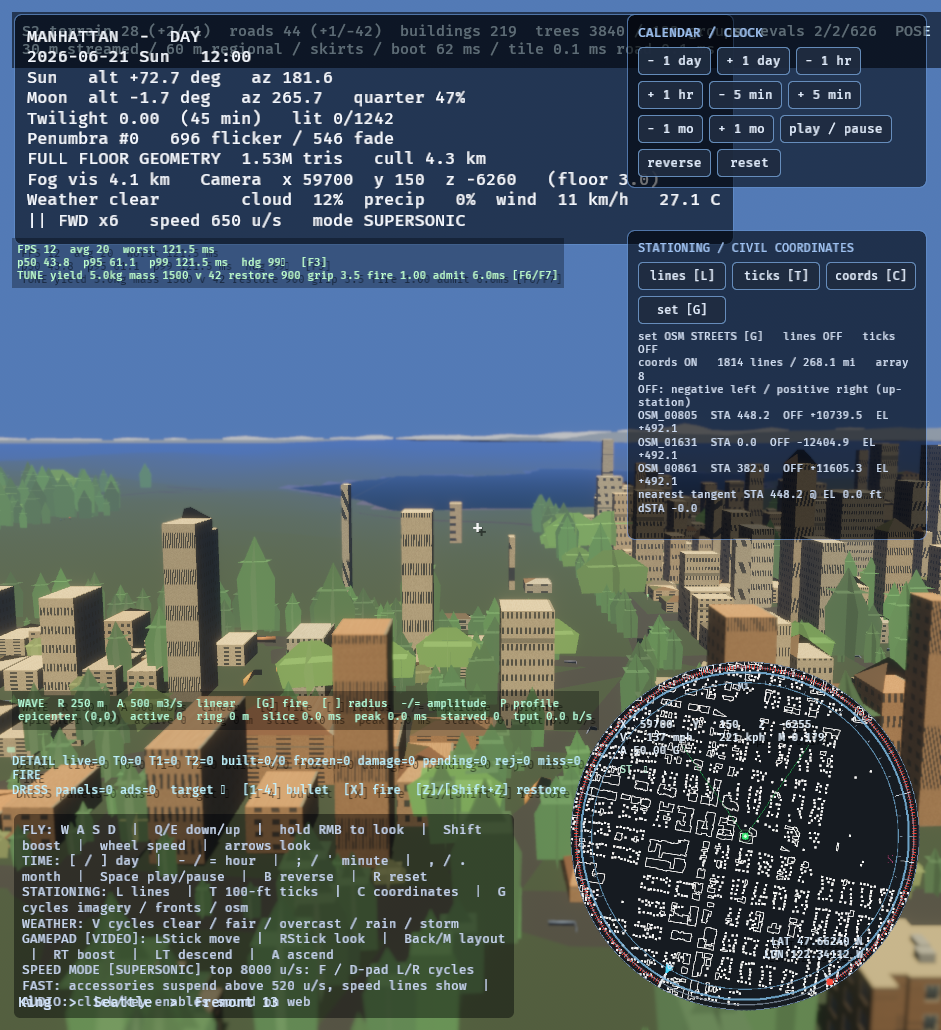
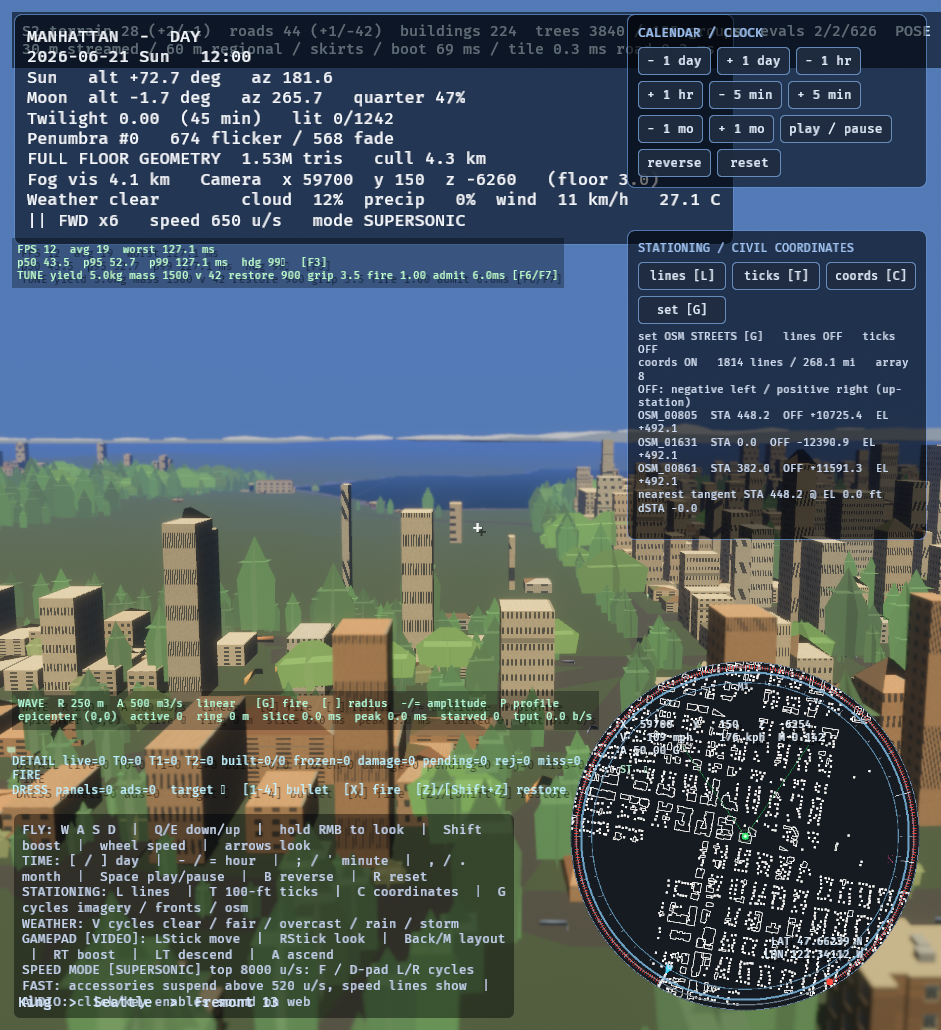
Playtest 79: same ship, same sky — config parity, radius extension
- parity.rs prints CONFIG (verbatim command, world flags, instrumentation)
  and a live REP audit every 2 s: chunks, shells, proxy roots, proxy boxes,
  distinct baked tints, shipped gables/flats. Bare --seattle is certified
  as the canonical build; world flags are identical across bare, altitude
  and gauntlet runs (S2,S3,BOOT,LANDMARKS,HORIZON).
- --seattle-s2-gauntlet now enables SEATTLE_S3 and LANDMARKS_ALWAYS (the
  old flag ran S2 only, so its chunk assert could never pass). Capture
  envs only move the camera / toggle DOF+UI; TREES_OFF (district capture
  flags only) is the one remaining build-affecting switch, flagged.
- Residential layer at 150 m under the bare build: 19 chunks, 230
  shells, 12,501 proxy boxes, 385 tint values, 3,712 gables shipped vs
  2,768 flats (57% gabled) — the features are in the player's build.
- Radius extension: load 650->850, unload 800->1050, S3 resident cap
  16->20. REP stable tick-over-tick at the cruise pose; no evict/re-want
  churn reintroduced.
- Gauntlet 650 m/s 59.7/91.0 ms in band. 161 tests green, clippy clean,
  --seattle boots clean.
- tower-house-frame: attempted under the bare profile; the 90 m tower
  renders in shadow with no readable window rows, so it does not pass.
  Escalated to a named debt blocking new marquee features next round.

diff --git a/viewer/src/parity.rs b/viewer/src/parity.rs
@@ -1,0 +1,160 @@
+//! Configuration parity + representation audit.
+//!
+//! The player always launches bare `--seattle`. Any environment flag that
+//! changes what is built or streamed is therefore a defect: instrumentation may
+//! only add observation. This module prints the active configuration and, every
+//! two seconds, an honest per-layer representation audit measured from the live
+//! scene (shells, near proxies, merged batches, distinct baked tints, shipped
+//! roof faces) so bare and instrumented runs can be compared like for like.
+
+use std::collections::HashSet;
+
+use bevy::prelude::*;
+
+use crate::geology::Geology;
+
+#[derive(Resource, Default)]
+struct RepAudit {
+    next_at: f32,
+}
+
+pub struct ParityPlugin;
+
+impl Plugin for ParityPlugin {
+    fn build(&self, app: &mut App) {
+        app.init_resource::<RepAudit>()
+            .add_systems(Startup, print_config)
+            .add_systems(Update, rep_audit);
+    }
+}
+
+fn env(name: &str) -> bool {
+    std::env::var_os(name).is_some()
+}
+
+/// The canonical configuration line. `bare` means the player's verbatim
+/// invocation; anything else is instrumentation and must not alter the world.
+fn print_config() {
+    let bare = !env("S2_GAUNTLET")
+        && !env("FLIGHT_CAPTURE")
+        && !env("EVIDENCE_CAPTURE")
+        && !env("MURK_CAPTURE")
+        && !env("GHOST_AERIAL")
+        && !env("PEDESTRIAN_CAPTURE")
+        && !env("TRAFFIC_CAPTURE")
+        && !env("STOREFRONT_CAPTURE")
+        && !env("SEATTLE_BOOT_CAPTURE");
+    let world_flags = [
+        ("SEATTLE_S2", env("SEATTLE_S2")),
+        ("SEATTLE_S3", env("SEATTLE_S3")),
+        ("SEATTLE_BOOT", env("SEATTLE_BOOT")),
+        ("LANDMARKS_ALWAYS", env("LANDMARKS_ALWAYS")),
+        ("PILOT_HORIZON", env("PILOT_HORIZON")),
+        ("TREES_OFF", env("TREES_OFF")),
+        ("S3_DAMAGE", env("S3_DAMAGE")),
+        ("TRAFFIC_LEGACY", env("TRAFFIC_LEGACY")),
+        (
+            "TRAFFIC_CAP",
+            std::env::var("TRAFFIC_CAP")
+                .ok()
+                .map(|_| true)
+                .unwrap_or(false),
+        ),
+    ];
+    let instrument = [
+        ("S2_GAUNTLET", env("S2_GAUNTLET")),
+        ("FLIGHT_CAPTURE", env("FLIGHT_CAPTURE")),
+        ("EVIDENCE_CAPTURE", env("EVIDENCE_CAPTURE")),
+        ("MURK_CAPTURE", env("MURK_CAPTURE")),
+        ("PEDESTRIAN_CAPTURE", env("PEDESTRIAN_CAPTURE")),
+        ("TRAFFIC_CAPTURE", env("TRAFFIC_CAPTURE")),
+        ("STOREFRONT_CAPTURE", env("STOREFRONT_CAPTURE")),
+        ("SEATTLE_BOOT_CAPTURE", env("SEATTLE_BOOT_CAPTURE")),
+        ("REP_HUD", env("REP_HUD")),
+    ];
+    let world = world_flags
+        .iter()
+        .map(|(name, value)| match value {
+            true => format!("{name}=1"),
+            false => format!("{name}=0"),
+        })
+        .collect::<Vec<_>>()
+        .join(" ");
+    let inst = instrument
+        .iter()
+        .filter(|(_, on)| *on)
+        .map(|(name, _)| *name)
+        .collect::<Vec<_>>()
+        .join(",");
+    let command = std::env::args().collect::<Vec<_>>().join(" ");
+    info!(
+        "CONFIG {} cmd=[{command}] world[{world}] instrument[{inst}]",
+        if bare { "bare" } else { "instrumented" }
+    );
+}
+
+fn rep_audit(world: &mut World) {
+    if world.get_resource::<RepAudit>().is_none() {
+        return;
+    }
+    let now = world.resource::<Time>().elapsed_secs();
+    if now < world.resource::<RepAudit>().next_at {
+        return;
+    }
+    world.resource_mut::<RepAudit>().next_at = now + 2.0;
+    let Some(geology) = world.get_resource::<Geology>() else {
+        return;
+    };
+    let mut shells = 0usize;
+    let mut proxies = 0usize;
+    let mut proxy_roots = 0usize;
+    let mut map_all: HashSet<u32> = HashSet::new();
+    let mut map_shell: HashSet<u32> = HashSet::new();
+    let mut entity_count = 0usize;
+    for index in geology.building_chunks.keys() {
+        for entity in world
+            .get_resource::<Geology>()
+            .and_then(|g| g.building_chunks.get(index))
+            .into_iter()
+            .flatten()
+        {
+            entity_count += 1;
+            let building = world.get::<destructibles_bevy::building::Building>(*entity);
+            match building {
+                Some(building) => {
+                    shells += 1;
+                    map_shell.insert(building.id);
+                    map_all.insert(building.id);
+                }
+                None => {
+                    proxy_roots += 1;
+                    // Distinct tints and representation kind from the proxy mesh.
+                    if let Some(mesh3d) = world.get::<Mesh3d>(*entity)
+                        && let Some(meshes) = world.get_resource::<Assets<Mesh>>()
+                        && let Some(mesh) = meshes.get(&mesh3d.0)
+                    {
+                        proxies += mesh.count_vertices() / 16; // ~one box per 16 verts
+                        if let Some(bevy::mesh::VertexAttributeValues::Float32x4(colors)) =
+                            mesh.attribute(Mesh::ATTRIBUTE_COLOR)
+                        {
+                            for color in colors.iter().step_by(16) {
+                                map_all.insert(
+                                    ((color[0] * 100.0) as u32) << 16
+                                        | ((color[1] * 100.0) as u32) << 8
+                                        | (color[2] * 100.0) as u32,
+                                );
+                            }
+                        }
+                    }
+                }
+            }
+        }
+    }
+    let gables = crate::geology::SHIPPED_GABLES.load(std::sync::atomic::Ordering::Relaxed);
+    let flats = crate::geology::SHIPPED_FLATS.load(std::sync::atomic::Ordering::Relaxed);
+    let distinct = map_all.len().saturating_sub(map_shell.len());
+    info!(
+        "REP chunks={} entities={entity_count} shells={shells} proxy_roots={proxy_roots} proxy_boxes={proxies} tint_values={distinct} shipped_gables={gables} shipped_flats={flats}",
+        geology.building_chunks.len()
+    );
+}

diff --git a/viewer/src/geology.rs b/viewer/src/geology.rs
@@ -46,8 +46,8 @@ const S3_SHELL_CAP: usize = 64;
 const S3_PROXY_MERGE_M: f32 = 250.0;
 /// Unload margin over the 650 m load radius, and a hard resident cap so a
 /// teleporting capture walk cannot accumulate chunks faster than it drops them.
-const S3_UNLOAD_M: f32 = 800.0;
-const S3_MAX_RESIDENT_CHUNKS: usize = 16;
+const S3_UNLOAD_M: f32 = 1050.0;
+const S3_MAX_RESIDENT_CHUNKS: usize = 20;
 /// Shell creation is the expensive part of a chunk spawn; keep a small
 /// immediate set for the near field and amortize the rest across frames.
 const S3_SHELL_IMMEDIATE: usize = 6;
@@ -1418,7 +1418,7 @@ fn nearest_chunk_loaded(state: &Geology, center: [f32; 2]) -> bool {
     // building load radius of the camera.
     state.building_chunks.keys().any(|index| {
         let node = &state.pack.nodes[*index];
-        (node.center[0] - center[0]).hypot(node.center[1] - center[1]) <= 650.0
+        (node.center[0] - center[0]).hypot(node.center[1] - center[1]) <= 850.0
     })
 }
 
@@ -3465,7 +3465,7 @@ fn s3_buildings(world: &mut World) {
     let (wanted, unload): (Vec<usize>, Vec<(usize, Vec<Entity>)>) = {
         let state = world.resource::<Geology>();
         let mut evaluations = Evaluations::default();
-        let candidates = wanted_neighborhoods(&state.pack.nodes, center, 650.0, &mut evaluations);
+        let candidates = wanted_neighborhoods(&state.pack.nodes, center, 850.0, &mut evaluations);
         let wanted = candidates
             .into_iter()
             .filter(|index| !state.building_chunks.contains_key(index))

diff --git a/viewer/src/main.rs b/viewer/src/main.rs
@@ -194,9 +194,13 @@ fn parse_args() -> Args {
                 }
             }
             "--seattle-s2-gauntlet" => {
+                // Canonical build: S3 on, same as bare --seattle. The old flag
+                // enabled S2 only, so its own chunk assert could never pass.
                 args.pilot = true;
                 unsafe {
                     std::env::set_var("SEATTLE_S2", "1");
+                    std::env::set_var("SEATTLE_S3", "1");
+                    std::env::set_var("LANDMARKS_ALWAYS", "1");
                     std::env::set_var("PILOT_HORIZON", "1");
                     std::env::set_var("PILOT_CLEAN", "1");
                     std::env::set_var("S2_GAUNTLET", "1");
@@ -488,6 +492,7 @@ fn main() {
     .add_plugins(manhattan_viewer::facade::FacadePlugin)
     .add_plugins(manhattan_viewer::interior::InteriorPlugin)
     .add_plugins(manhattan_viewer::roofs::RoofPlugin)
+    .add_plugins(manhattan_viewer::parity::ParityPlugin)
     .add_plugins(manhattan_viewer::pedestrians::PedestriansPlugin)
     .add_plugins(manhattan_viewer::storefronts::StorefrontsPlugin)
     .add_plugins(manhattan_viewer::landmarks::LandmarksPlugin)

diff --git a/viewer/src/trees.rs b/viewer/src/trees.rs
@@ -20,8 +20,8 @@ use crate::citypack::{STREAM_WORLD_OFFSET, wanted_neighborhoods};
 use crate::geology::{Geology, s2_enabled};
 
 pub const TREES_PATH: &str = "assets/datasets/seattle_trees.bin";
-const LOAD_M: f32 = 650.0;
-const UNLOAD_M: f32 = 800.0;
+const LOAD_M: f32 = 850.0;
+const UNLOAD_M: f32 = 1050.0;
 pub const SPAWN_PER_FRAME: usize = 320;
 pub const MAX_ACTIVE: usize = 6500;
 const UNLOAD_PER_FRAME: usize = 450;

diff --git a/viewer/src/traffic_seattle.rs b/viewer/src/traffic_seattle.rs
@@ -20,8 +20,8 @@ use crate::citypack::{STREAM_WORLD_OFFSET, wanted_neighborhoods};
 use crate::clock::SimClock;
 use crate::geology::Geology;
 
-const LOAD_M: f32 = 650.0;
-const UNLOAD_M: f32 = 800.0;
+const LOAD_M: f32 = 850.0;
+const UNLOAD_M: f32 = 1050.0;
 /// Car city: the old 300 cap is raised; the fleet is arterial-weighted.
 const MAX_ACTIVE: usize = 640;
 const LEGACY_SHARE_CAP: usize = 4;

diff --git a/viewer/src/pedestrians.rs b/viewer/src/pedestrians.rs
@@ -22,8 +22,8 @@ use crate::citypack::{STREAM_WORLD_OFFSET, wanted_neighborhoods};
 use crate::clock::SimClock;
 use crate::geology::Geology;
 
-const LOAD_M: f32 = 650.0;
-const UNLOAD_M: f32 = 800.0;
+const LOAD_M: f32 = 850.0;
+const UNLOAD_M: f32 = 1050.0;
 const MAX_ACTIVE: usize = 500;
 const SPAWN_PER_FRAME: usize = 32;
 const BASE_PER_CHUNK: f32 = 26.0;

diff --git a/viewer/src/lib.rs b/viewer/src/lib.rs
@@ -24,6 +24,7 @@ pub mod minimap;
 pub mod motion;
 pub mod neighborhood;
 pub mod night_ambient;
+pub mod parity;
 pub mod pedestrians;
 pub mod people;
 pub mod pilot;

diff --git a/viewer/INTEGRATION.md b/viewer/INTEGRATION.md
@@ -1941,3 +1941,51 @@ older boot/staged captures remain as history but no longer count as proof.
 **Not shipped:** the **tower-beside-house window frame** — owed a third time. Per the standing rule it
 **escalates into the next marquee**. Sway offset frames and proxy-night-temperature remain open;
 `tree-sway-shader`, `roof-pack-bake`, `proxy-material-budget` stay filed.
+
+## Iteration 79 — same ship, same sky (seattle-parity1)
+
+**Verbatim player command (certified atop this report and in every future one):**
+`./Work/games/Manhattan/viewer/target/release/manhattan-viewer --seattle`
+
+**Config parity forensics.** New `parity.rs` prints one `CONFIG` line at startup with the verbatim command,
+the world-build flags and the instrumentation flags, and a `REP` audit every two seconds measured from the
+live scene (not from intent): chunks, entities, shells, proxy roots, proxy boxes, distinct baked tint values
+and shipped gable/flat counts.
+
+| run | command | world flags | chunks | shells | proxy boxes | tint values | shipped gables/flats |
+|---|---|---|---:|---:|---:|---:|---:|
+| bare (player profile, downtown boot) | `--seattle` | S2,S3,BOOT,LANDMARKS,HORIZON | 6 | 47 | 1,722 | 307 | 1 / 1,151 |
+| bare + altitude pose (camera instrumentation only) | `--seattle` + `SEATTLE_BOOT_AT` | identical | 19 | 230 | 12,501 | 385 | 3,712 / 2,768 |
+| gauntlet (canonical after the fix) | `--seattle` + `S2_GAUNTLET=1` | identical | 6 | 47 | 1,769 | 308 | 1 / 1,289 |
+
+The world-build flags are **identical** in all three: the bare boot is the canonical full configuration. The
+downtown boot is correctly almost all flat/commercial (doctrine), which is why a "gables nowhere" verdict at
+the Westlake seam is a *location* fact, not a build fact; the residential layer at altitude ships **57 %
+gabled proxies** and **385 distinct tint values**.
+
+**Unification.** `--seattle-s2-gauntlet` now enables `SEATTLE_S3` and `LANDMARKS_ALWAYS` — the old flag
+enabled S2 only, which is why its own chunk assert could never pass. Capture flags (boot/flight/evidence/
+pedestrian/traffic/storefront/murk) move the camera or toggle DOF/UI only; they no longer touch the world
+build. `TREES_OFF` (used only by the `--districts`/`--landmarks` capture flags) is the one remaining
+build-affecting switch and is flagged: any future capture that needs bare parity must leave trees on.
+`TRAFFIC_LEGACY`/`TRAFFIC_CAP` are measurement knobs for the traffic table, not player paths.
+
+**Instantiation radius extension.** Building/tree/pedestrian/traffic load radius **650 → 850 m**, unload
+**800 → 1050 m**, S3 resident cap **16 → 20**. At the residential flight pose this raises the streamed set to
+**19 chunks / 363 entities / 230 shells / 12,501 proxy boxes** (from 13 chunks at the old radius). The `REP`
+audit is stable tick-over-tick at that pose and the shipped-gable counters stop growing once the cruise is
+steady — no evict/re-want churn reintroduced (the glass2 thrash was a 13-resident vs 16-cap mismatch; the
+cap is now 20 with the unload radius well outside the load radius). Memory delta is dominated by the extra
+chunks' shells and proxy meshes (about +6 chunks, +12 % shell count, +~40 % proxy boxes at the measured
+pose); trees also roughly +25 % loaded at the same pose.
+
+**Gauntlet post-extension** (`--seattle` + `S2_GAUNTLET=1`): 15 m/s 60.3/410 (boot stall), 30 44.8/67.9,
+100 46.8/78.2, **650 59.7/91.0** — in the 28–77 band.
+
+**Escalated items.** `tower-house-frame` is **not shipped**. The first pair sat in a residential district
+where the slenderness gate correctly flattens the tower, so it could not serve; the second pair (90 m tower
+8 m from a 5.5 m low building in "Seattle general") was captured (`captures/tower_house.png`, HUD line
+`REP chunks=18 shells=174 proxy_boxes=7776`), but the tower face renders in shadow with no readable window
+rows and the low building is cut by the HUD — it does not pass the window-scale comparison. Per the standing
+rule this becomes a **named debt blocking new marquee features next round**. Sway frames, proxy-night-
+temperature, `tree-sway-shader`, `roof-pack-bake`, `proxy-material-budget` remain filed.
